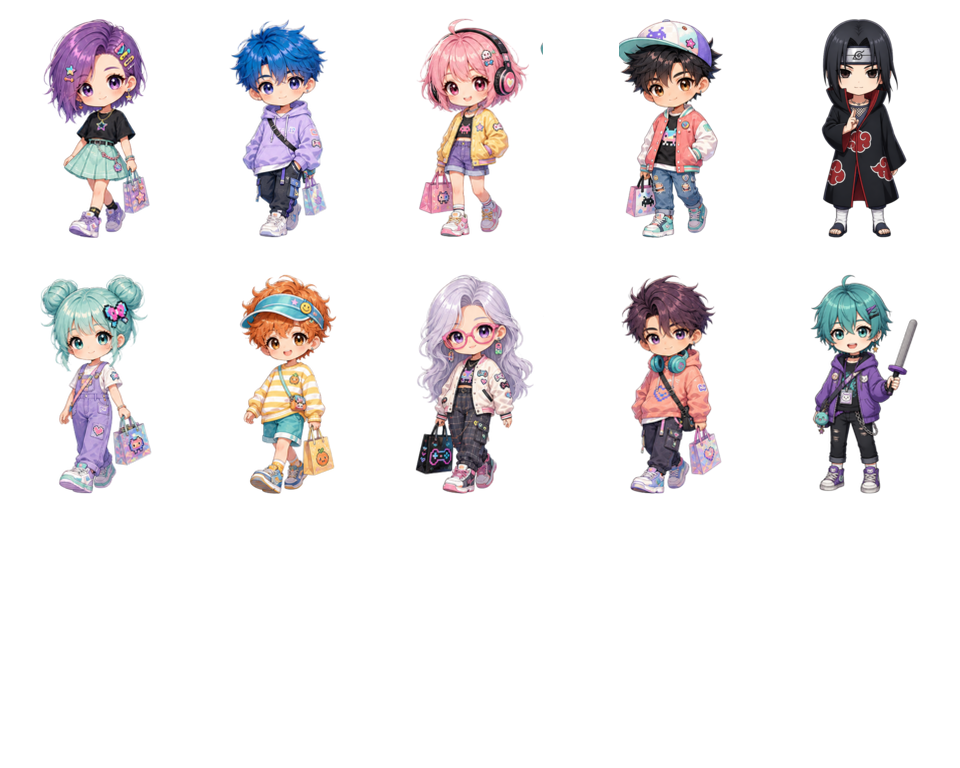
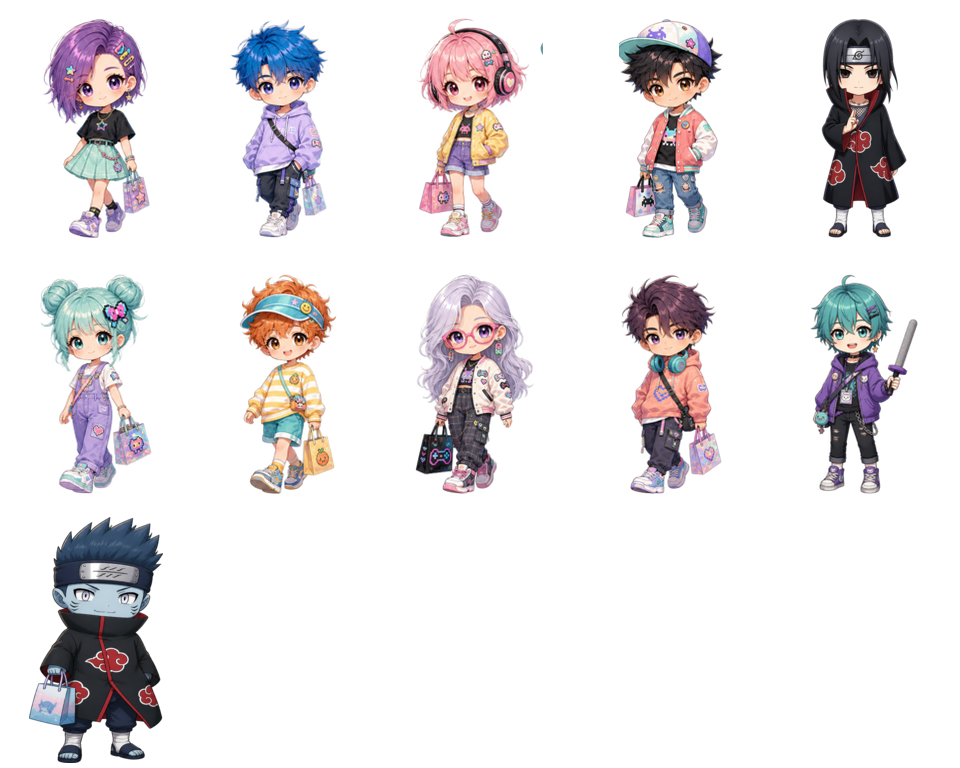
Update mall scene requirements and floor 5 guest assets
Replit-Commit-Author: Agent

Changed region(s): [[0.0312, 0.6562, 0.1875, 1.0]]

diff --git a/.agents/memory/mall-scene-requirements.md b/.agents/memory/mall-scene-requirements.md
@@ -128,3 +128,9 @@ Cosplay 店的火影忍者主題衣櫃要有角色相關服飾，包括卡卡西
 **Why:** 使用者明確要求佐助、鼬、卡卡西和小櫻的衣服放在相應角色的衣櫃；既有展示資料也不能因分類調整而消失。
 
 **How to apply:** 新商品目錄按角色衣櫃過濾；保留已存的錯位商品供場景渲染和清除，但不顯示為可新增選項。曉成員典藏衣櫃仍保留全體成員的戒指、假髮與斗篷。
+
+5F 客人名單包含干柿鬼鮫，並以獨立客人插畫加入該層的行走場景。
+
+**Why:** 使用者指定在 5F 增加干柿鬼鮫客人。
+
+**How to apply:** 保留 5F 專屬角色插畫、樓層客人數量與圖集格位索引一致；樓層切換時仍沿用商場客人的動畫路徑。
